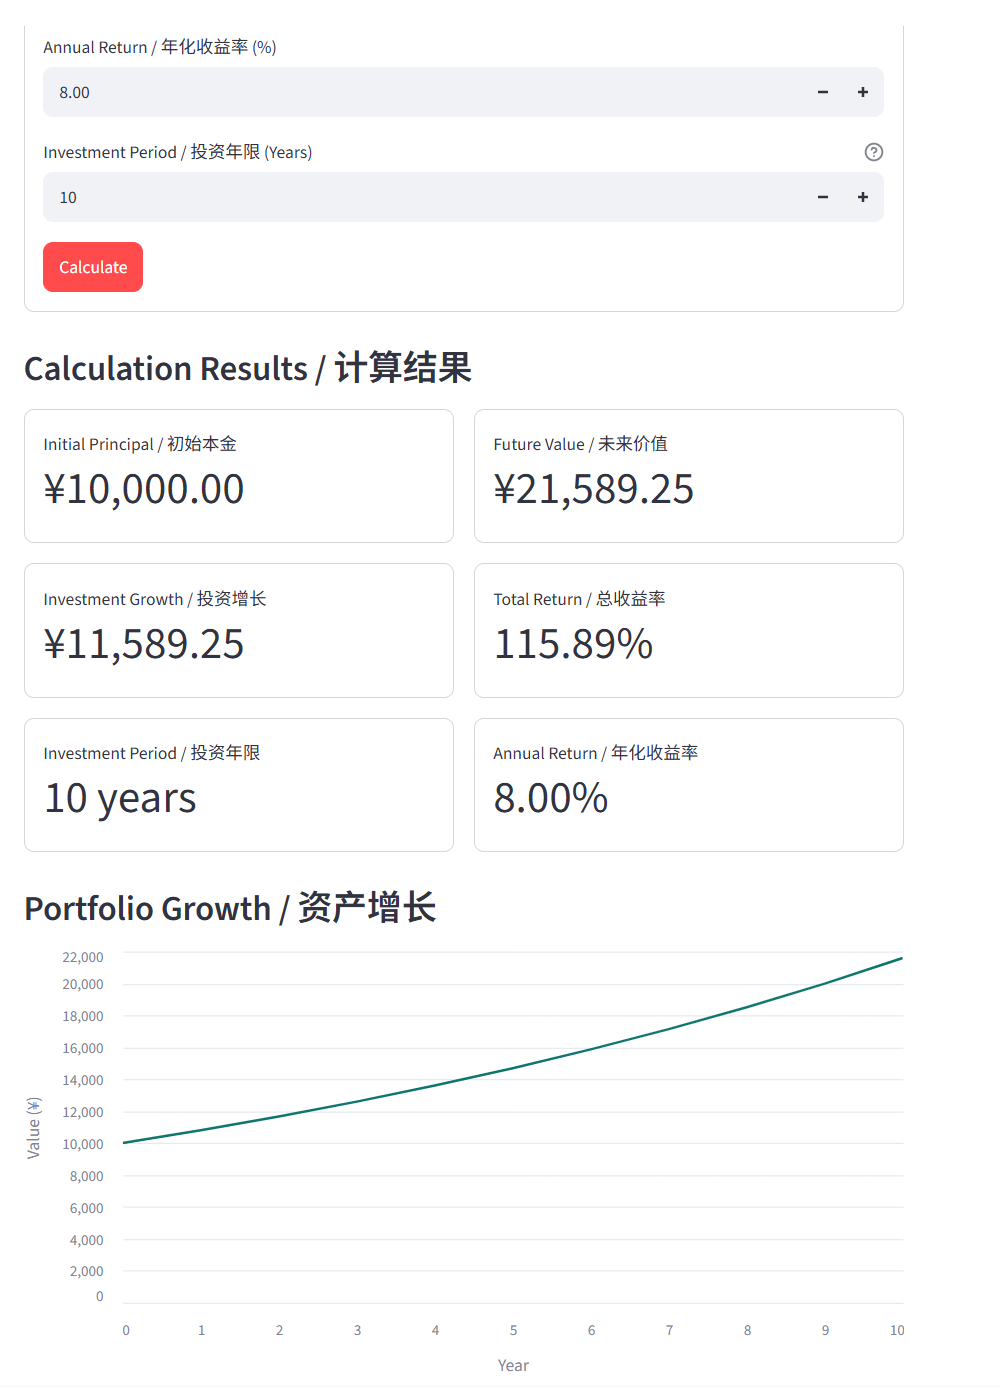
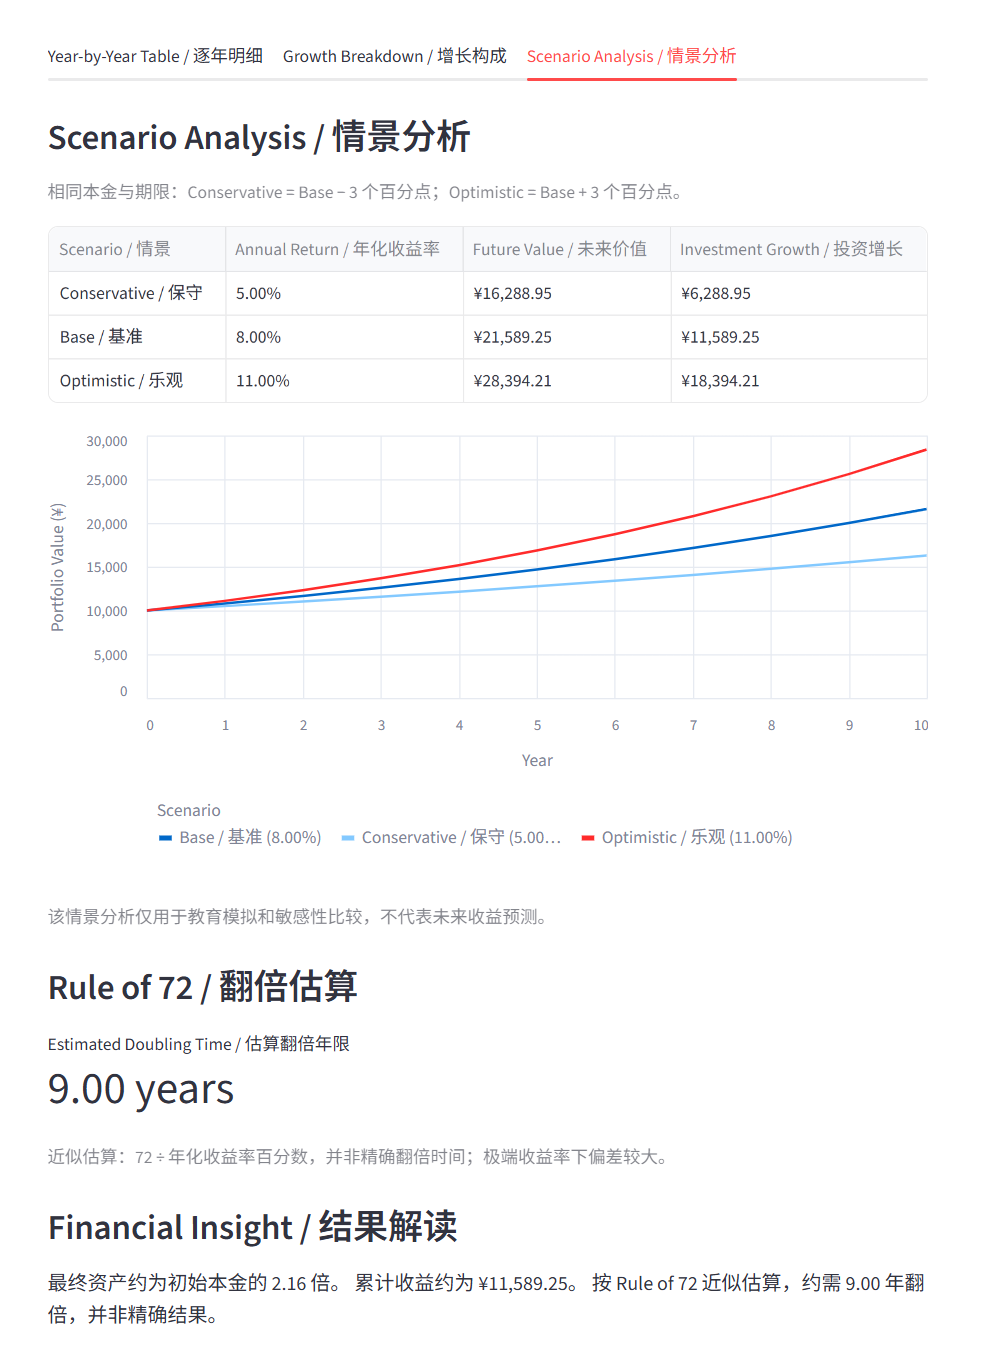
Prepare Finance Mini Lab v0.2.0 release

diff --git a/tests/test_streamlit_app.py b/tests/test_streamlit_app.py
@@ -21,8 +21,8 @@ class StreamlitAppTests(unittest.TestCase):
     def test_product_intro_and_module_overview(self):
         app = AppTest.from_file(str(Path(__file__).resolve().parents[1] / "streamlit_app.py"), default_timeout=15).run()
         self.assertFalse(app.exception)
-        self.assertEqual(app.title[0].value, "Finance Mini Lab v0.1")
-        self.assertIn("A lightweight financial planning toolkit for exploring long-term investment growth.", [m.value for m in app.markdown])
+        self.assertEqual(app.title[0].value, "Finance Mini Lab v0.2.0")
+        self.assertIn("A lightweight financial planning and scenario analysis toolkit built with Python and Streamlit.", [m.value for m in app.markdown])
         self.assertTrue(any("仅用于教育和模拟，不构成投资建议" in c.value for c in app.caption))
         for name in ["Compound Interest", "DCA Simulator", "Goal Planner"]:
             self.assertIn(f"**{name}**", [m.value for m in app.markdown])

diff --git a/streamlit_app.py b/streamlit_app.py
@@ -331,9 +331,9 @@ def render_goal_planner() -> None:
 
 
 def main() -> None:
-    st.set_page_config(page_title="Finance Mini Lab v0.1", page_icon="📈")
-    st.title("Finance Mini Lab v0.1")
-    st.write("A lightweight financial planning toolkit for exploring long-term investment growth.")
+    st.set_page_config(page_title="Finance Mini Lab v0.2.0", page_icon="📈")
+    st.title("Finance Mini Lab v0.2.0")
+    st.write("A lightweight financial planning and scenario analysis toolkit built with Python and Streamlit.")
     st.caption("探索长期资产增长与投入规划。仅用于教育和模拟，不构成投资建议。")
 
     st.subheader("Explore the Modules")

diff --git a/app.py b/app.py
@@ -19,7 +19,7 @@ def read_number(prompt: str) -> float:
 
 
 def main() -> None:
-    print("## Finance Mini Lab v0.1")
+    print("## Finance Mini Lab v0.2.0")
     print()
     try:
         principal = read_number("principal（本金）: ")

diff --git a/src/dca.py b/src/dca.py
@@ -1,4 +1,4 @@
-"""DCA 固定收益率模拟：Finance Mini Lab v0.1，并非真实市场回报预测。"""
+"""DCA 固定收益率模拟：Finance Mini Lab v0.2.0，并非真实市场回报预测。"""
 
 from math import isfinite
 

diff --git a/README.md b/README.md
@@ -1,10 +1,10 @@
-# Finance Mini Lab v0.1
+# Finance Mini Lab v0.2.0
 
-A lightweight investment planning and financial education toolkit built with Python and Streamlit.
+A lightweight financial planning and scenario analysis toolkit built with Python and Streamlit.
 
-一个使用 **Python + Streamlit** 构建的轻量级金融规划与金融教育工具，包含 **Compound Interest / 复利计算、DCA Simulator / 定投模拟、Goal Planner / 目标规划** 三个模块。
+一个使用 **Python + Streamlit** 构建的轻量级投资规划与情景分析工具，用于理解时间、投入、收益率和通胀如何影响长期财富结果。
 
-通过交互输入、增长图表和逐年明细探索不同假设下的资产变化，并以输入校验和自动化测试验证计算行为。项目采用固定收益率模拟，适合教育与演示用途，不构成投资建议。当前版本：**v0.1.0**。
+包含复利计算、定投模拟和目标规划三个模块，支持交互输入、增长图表、逐年明细、输入校验与自动化测试。采用固定假设，适合教育和规划模拟，不构成投资建议。当前版本：**v0.2.0**。
 
 ## Live Demo / 在线体验
 
@@ -16,15 +16,26 @@ A lightweight investment planning and financial education toolkit built with Pyt
 
 | 模块 | 用途 |
 |---|---|
-| **Compound Interest / 复利计算** | 模拟一次性本金按年复利的增长，展示收益、逐年数据、收益构成及 4%、当前收益率、12% 的情景对比。 |
-| **DCA Simulator / 定投模拟** | DCA（Dollar-Cost Averaging）即定期定额投资。本模块模拟初始本金加每月固定投入，对比累计投入与资产价值。 |
-| **Goal Planner / 目标规划** | 根据目标资产、本金、收益率和期限反推每月所需投入，复用 DCA 模拟验证目标，并展示逐年目标差额。 |
+| **Compound Interest / 复利计算** | 模拟一次性本金按年复利的增长，展示收益、逐年数据、收益构成、Conservative / Base / Optimistic 情景分析及通胀调整后的实际购买力。 |
+| **DCA Simulator / 定投模拟** | DCA（Dollar-Cost Averaging）即定期定额投资。本模块模拟初始本金加每月固定投入，对比累计投入与资产价值，并展示最终资产的通胀调整结果。 |
+| **Goal Planner / 目标规划** | 根据目标资产、本金、收益率和期限反推每月所需投入，复用 DCA 模拟验证目标，并展示逐年目标差额、时间敏感性和收益率敏感性。 |
 
 三个模块通过独立标签页使用。网页之外，还保留了命令行复利计算器。
 
+## v0.2.0 Highlights / 版本亮点
+
+- **Scenario Analysis**：Conservative / Base / Optimistic 三档收益率比较。
+- **Inflation-adjusted Value**：复利与定投的名义金额、实际购买力及购买力损失。
+- **Goal Sensitivity**：时间敏感性与收益率敏感性，比较所需月投入及较基准差额。
+- Interactive growth charts / 交互增长图表。
+- Year-by-year projections / 逐年模拟明细。
+- Input validation / 输入校验与数值异常处理。
+- **65 automated tests passing** / 核心计算与页面测试。
+- Public Streamlit deployment / 公开在线体验。
+
 ## Screenshot / Demo
 
-以下为三个模块计算完成后的实际页面截图。
+以下为 v0.2.0 三个模块的实际产品截图。
 
 ### Compound Interest
 
@@ -53,7 +64,9 @@ A lightweight investment planning and financial education toolkit built with Pyt
 - Goal-based contribution planning：目标导向的月投入反推。
 - Growth charts：资产、累计投入与目标参考线。
 - Year-by-year tables：从 Year 0 开始的逐年明细。
-- Scenario analysis：复利模块固定收益率情景对比，自动去重。
+- Scenario analysis：保守、基准、乐观情景对比及收益率边界处理。
+- Inflation adjustment：默认 2% 固定通胀假设，可调节；复利与定投的终值折现。
+- Goal sensitivity：期限与收益率变化下的月投入比较。
 - Financial insights：结果摘要与 Rule of 72 近似翻倍估算。
 - Input validation：友好处理无效输入、非有限数值及计算溢出。
 - Automated tests：核心计算与 Streamlit 页面自动化测试。
@@ -64,7 +77,8 @@ A lightweight investment planning and financial education toolkit built with Pyt
 - **Streamlit**：网页界面、交互表单、图表和表格。
 - **Python standard library**：金融计算、输入校验及 `unittest` 测试。
 - **Streamlit AppTest**：页面交互测试，包含在 Streamlit 中。
-- **Git**：版本管理。
+- **Git / GitHub**：版本管理与公开代码托管。
+- **Streamlit Community Cloud**：公开应用部署。
 
 唯一声明的第三方直接依赖为 `streamlit>=1.50,<2`。开发验证使用 Python 3.12.14 / Streamlit 1.64.0。Streamlit 所需的 pandas、Altair 等间接依赖由 pip 自动安装，无需另行手动安装。
 
@@ -80,13 +94,22 @@ Finance-Mini-Lab/
 ├─ src/                          # 独立金融计算逻辑
 │  ├─ compound_interest.py
 │  ├─ dca.py
-│  └─ goal_planner.py
+│  ├─ goal_planner.py
+│  ├─ scenario.py                 # 三档情景
+│  ├─ inflation.py                # 通胀折现
+│  └─ sensitivity.py              # 目标敏感性
 ├─ tests/                        # 核心计算与页面测试
 │  ├─ test_streamlit_app.py
 │  ├─ test_dca.py
 │  ├─ test_dca_ui.py
 │  ├─ test_goal_planner.py
-│  └─ test_goal_planner_ui.py
+│  ├─ test_goal_planner_ui.py
+│  ├─ test_scenario.py
+│  ├─ test_inflation.py
+│  ├─ test_inflation_ui.py
+│  ├─ test_sensitivity.py
+│  └─ test_sensitivity_ui.py
+├─ assets/                       # README 截图
 └─ docs/
    └─ project_log.md              # 里程碑及验证记录
 ```
@@ -167,7 +190,7 @@ Windows 无需激活环境的运行方式：
 .\.venv\Scripts\python.exe -m unittest discover -s tests -v
 ```
 
-当前有 **37 个测试方法**，覆盖核心计算、输入边界、零本金、零收益率、情景去重、图表、表格、目标回算及模块切换。AppTest 在某些环境可能输出 `missing ScriptRunContext` 提示，以最后的测试结果为准。
+**65 automated tests passing**（2026-10-07 本地完整验证）。覆盖核心计算、输入边界、零本金、零收益率、情景分析、通胀折现、目标敏感性、图表、表格、目标回算及模块切换。AppTest 在某些环境可能输出 `missing ScriptRunContext` 提示，以最后的测试结果为准。
 
 ### 标准验证案例
 
@@ -182,6 +205,9 @@ Windows 无需激活环境的运行方式：
 - **Compound Interest**：`FV = PV × (1 + r)^n`，每年复利，无追加投入。
 - **DCA**：月收益率为 `r / 12`，每月先增长、再加入固定投入；累计投入包含初始本金。总收益率为投资增长除以累计投入，不是年化或资金加权收益率。
 - **Goal Planner**：复用 DCA 的本金期末价值与单位月投入系数反推金额，再通过 DCA 回算。本金自身增长已达到目标时，月投入为 0。
+- **Scenario Analysis**：基准收益率 ±3 个百分点；保守值触及 -100% 时改取基准与 -100% 的中点，极近边界受浮点精度限制。
+- **Inflation-adjusted Value**：`Real Value = Nominal Value / (1 + inflation_rate)^years`；购买力损失为名义金额减实际购买力，以投资起点计价。固定通胀率默认 2%，须大于 -100%；负值表示通缩。DCA 月投入保持固定名义金额。
+- **Goal Sensitivity**：复用 Goal Planner 比较当前期限 ±5 年（限制为 1–1000 并去重）以及三档收益率；差额为情景月投入减基准月投入。异常情景显示 N/A，不改变基准结果。
 - 月度复利与年度复利在同一名义年化收益率下通常产生不同结果。
 - Compound Interest 与 DCA 支持 0–1000 整数年；Goal Planner 支持 1–1000 整数年，目标必须大于 0。本金和月投入非负，收益率必须大于 -100%。
 - 内部计算保留完整精度，显示时才舍入。目标规划按显示的两位小数金额投入可能产生少量差额；回算允许误差为 `max(target × 1e-9, 1e-6)`。
@@ -191,23 +217,26 @@ Windows 无需激活环境的运行方式：
 
 - **Fixed return assumption**：收益率固定，不保证实际收益。
 - **Compounding frequency depends on module**：复利模块按年，DCA 和目标规划按月。
-- **No tax, inflation or fees**：不考虑税费、通胀和手续费。
+- **No tax or fees**：不考虑税费和手续费。
+- **Fixed inflation assumption**：仅复利与定投另列通胀折现结果，不预测真实通胀；原有收益与图表保持名义金额，Goal Planner 不做通胀调整。
 - **No real market volatility**：不模拟真实市场波动，也不使用真实行情。
 - **Educational use only**：仅用于金融教育和演示。
 - **Not investment advice**：结果不构成投资建议或市场回报预测。
 
 ## Roadmap / 未来方向
 
-以下为潜在探索方向，**不属于 v0.1，尚未实现或承诺交付**：
+以下为潜在探索方向，**不属于 v0.2.0，尚未实现或承诺交付**：
 
-- Inflation adjustment / 通胀调整。
-- Real market data / 真实市场数据。
-- Portfolio analytics / 投资组合分析。
-- Sharpe ratio / 夏普比率。
-- Scenario modelling / 更广泛的情景建模，超出现有固定收益率对比。
+- Historical market reference / 历史市场参考。
+- Export/report functionality / 导出与报告。
+- Additional financial insight tools / 更多金融解读工具。
+
+## Security / 安全
+
+不要提交密码、API key 或凭据。`.gitignore` 排除 `.env`、`.env.*` 和 `.streamlit/secrets.toml`；私密配置不应纳入公开仓库。
 
 ## Version / 版本
 
-当前版本：**v0.1.0**。界面保留 `Finance Mini Lab v0.1` 标题。
+当前版本：**v0.2.0**。网页与 CLI 均显示 `Finance Mini Lab v0.2.0`。
 
 开发过程与各里程碑验证记录见 [Project Log](docs/project_log.md)。

diff --git a/docs/project_log.md b/docs/project_log.md
@@ -1,3 +1,5 @@
+> 当前版本：**v0.2.0**。下方旧版本名称和验证数字属于历史里程碑记录，不代表当前产品状态。
+
 # 项目日志
 
 ## 2026-09-30 — Milestone 1：Compound Interest Calculator
@@ -253,3 +255,26 @@ Finance-Mini-Lab/
 - README Screenshot / Demo 区域包含三个模块图片及简短说明；移除过时的缺图 TODO 和 assets 为空说明。
 - 使用 Markdown 转换器验证产生三个 img 元素，全部 src 相对路径均正确解析到本地 PNG。图片完整性与引用检查通过；图片预览工具因沙箱初始化错误不可用，未进行截图内容的视觉复核。
 - 不修改核心代码，不创建 Release。本次按用户要求提交正式截图、README 和日志。
+
+
+## 2026-10-07 — v0.2.0 Final Packaging
+
+- 当前 README、网页标题、CLI 标题和版本测试统一为 v0.2.0；DCA 文件说明中的版本文字同步，不改金融计算。
+- README 更新三个模块定位及 Scenario Analysis、Inflation-adjusted Value、Goal Sensitivity，补充版本亮点、计算口径、真实技术栈和简洁未来方向。
+- 保留 Live Demo、knoxlab01 仓库地址、安装与运行命令、安全规则、固定假设和非投资建议说明。
+- 三张旧截图保留且可解码，README 分别标记重拍情景分析、通胀结果与目标敏感性区域。
+- 发布前仍需更新截图、提交推送并确认线上部署版本；本轮不创建 tag 或 Release，不重写历史。
+
+### 本轮验证
+
+- 完整测试 65 项全部通过，README 如实标记 65 automated tests passing；git diff --check 通过。
+- 核对 Python diff 仅涉及版本及产品介绍字符串，无金融计算变化。
+- README 本地图片与日志链接均存在，三张 PNG 完整解码；GitHub knoxlab01 仓库页面可访问，未发现旧用户名。localhost:8501 为本地启动示例，不是公共在线地址。
+- Live Demo 地址保持不变；初次自动读取遇到重定向问题，加入 Cookie 支持后返回 HTTP 200。已确认地址可达，但发布前仍需浏览器确认线上部署版本与交互功能。
+
+## 2026-10-07 — v0.2.0 新版截图与最终检查
+
+- 人工提供三张新版 PNG，修正文件名中多余的 assets 前缀，恢复 README 约定路径；未修改图片内容。
+- 三张 PNG 完整解码，尺寸分别为 987×1345、940×1239、926×1365；README 图片引用存在，截图更新 TODO 已清除。
+- 当前公开版本文案统一 v0.2.0，旧版本名称仅保留于历史里程碑记录。
+- 完整 65 项测试通过；本轮按要求提交发布包装，不创建 tag 或 Release。
